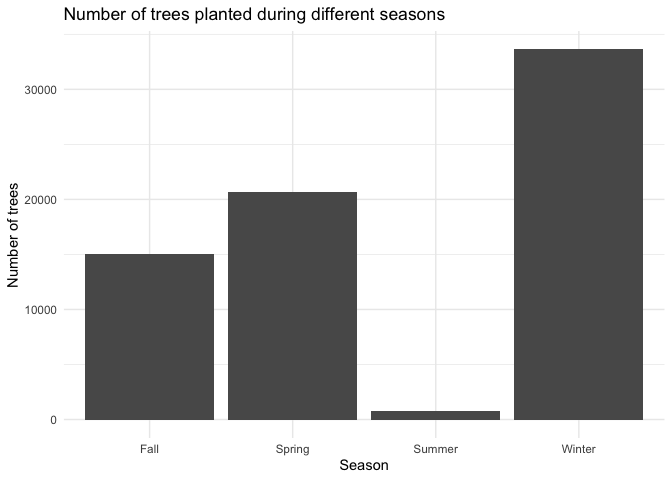
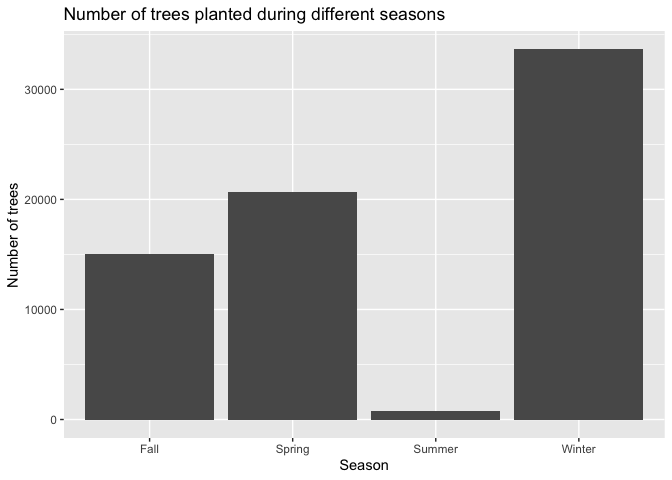
Edited README file, main.Rmd and knitted it to md file again.

diff --git a/main.md b/main.md
@@ -1,3 +1,5 @@
+# Mini Data-Analysis (STAT545A)
+
 # Welcome to your (maybe) first-ever data analysis project!
 
 And hopefully the first of many. Let’s get started:
@@ -5,30 +7,27 @@ And hopefully the first of many. Let’s get started:
 1.  Install the [`datateachr`](https://github.com/UBC-MDS/datateachr)
     package by typing the following into your **R terminal**:
 
-<!-- -->
+          #remove the hashtag ('#') symbol before the lines of code you wish to run below:
+          #install.packages("devtools")
+          #devtools::install_github("UBC-MDS/datateachr")
 
-    #install.packages("devtools")
-    #devtools::install_github("UBC-MDS/datateachr")
+2.  Load the packages below.
 
-1.  Load the packages below.
+        library(datateachr)
+        library(tidyverse)
 
-<!-- -->
+        ## ── Attaching core tidyverse packages ──────────────────────── tidyverse 2.0.0 ──
+        ## ✔ dplyr     1.1.3     ✔ readr     2.1.4
+        ## ✔ forcats   1.0.0     ✔ stringr   1.5.0
+        ## ✔ ggplot2   3.4.2     ✔ tibble    3.2.1
+        ## ✔ lubridate 1.9.2     ✔ tidyr     1.3.0
+        ## ✔ purrr     1.0.1     
+        ## ── Conflicts ────────────────────────────────────────── tidyverse_conflicts() ──
+        ## ✖ dplyr::filter() masks stats::filter()
+        ## ✖ dplyr::lag()    masks stats::lag()
+        ## ℹ Use the conflicted package (<http://conflicted.r-lib.org/>) to force all conflicts to become errors
 
-    library(datateachr)
-    library(tidyverse)
-
-    ## ── Attaching core tidyverse packages ──────────────────────── tidyverse 2.0.0 ──
-    ## ✔ dplyr     1.1.3     ✔ readr     2.1.4
-    ## ✔ forcats   1.0.0     ✔ stringr   1.5.0
-    ## ✔ ggplot2   3.4.2     ✔ tibble    3.2.1
-    ## ✔ lubridate 1.9.2     ✔ tidyr     1.3.0
-    ## ✔ purrr     1.0.1     
-    ## ── Conflicts ────────────────────────────────────────── tidyverse_conflicts() ──
-    ## ✖ dplyr::filter() masks stats::filter()
-    ## ✖ dplyr::lag()    masks stats::lag()
-    ## ℹ Use the conflicted package (<http://conflicted.r-lib.org/>) to force all conflicts to become errors
-
-1.  Make a repository in the <https://github.com/stat545ubc-2023>
+3.  Make a repository in the <https://github.com/stat545ubc-2023>
     Organization. You can do this by following the steps found on canvas
     in the entry called [MDA: Create a
     repository](https://canvas.ubc.ca/courses/126199/pages/mda-create-a-repository).
@@ -168,7 +167,7 @@ The cancer sample (`cancer_sample`) data set was acquired as courtesy of
 the UCI Machine Learning Repository and comprises patient IDs, diagnosis
 and 30 other aspects of tumours from 569 cancer patients.
 
-    class(cancer_sample) #this data is structured as a data frame, tibble and ****spec_tbl_df??
+    class(cancer_sample) #this data is structured as a data frame and different tibble variations (tbl, tbl_df, spec_tbl_df)
 
     ## [1] "spec_tbl_df" "tbl_df"      "tbl"         "data.frame"
 
@@ -209,6 +208,11 @@ and 30 other aspects of tumours from 569 cancer patients.
     ## $ symmetry_worst          <dbl> 0.4601, 0.2750, 0.3613, 0.6638, 0.2364, 0.3985…
     ## $ fractal_dimension_worst <dbl> 0.11890, 0.08902, 0.08758, 0.17300, 0.07678, 0…
 
+The `cancer_sample` dataset primarily contains rows of patient data and
+mainly numeric variables that characterize patient tumour features in
+great depth (ie. radius, texture, perimeter, area, smoothness,
+compactness, etc.).
+
 #### Vancouver trees
 
 The Vancouver trees (`vancouver_trees`) data was acquired as courtesy of
@@ -244,13 +248,19 @@ specifics about 146611 trees in Vancouver.
     ## $ longitude          <dbl> -123.1161, -123.1147, -123.0846, -123.0870, -123.08…
     ## $ latitude           <dbl> 49.21776, 49.21776, 49.23938, 49.23469, 49.23894, 4…
 
+The `vancouver_trees` dataset contains a wide variety of information on
+trees planted in Vancouver area, including features about location, tree
+type, height, diameter, date planted, etc. Owing to its large size and
+various types of variables, this dataset would be very informative to
+learn from!
+
 #### Apartment buildings
 
 The apartment buildings (`apt_buildings`) data was acquired as courtesy
 of The City of Toronto’s Open Data Portal and comprises 37 aspects of
 apartment listings for 3455 rental units.
 
-    class(apt_buildings) #this data is structured as a data frame and tibble
+    class(apt_buildings) #this data is structured as a data frame and tibble (tbl, tbl_df)
 
     ## [1] "tbl_df"     "tbl"        "data.frame"
 
@@ -296,13 +306,20 @@ apartment listings for 3455 rental units.
     ## $ cooling_room                     <chr> "NO", "NO", "NO", "NO", "NO", "NO", "…
     ## $ no_barrier_free_accessible_units <dbl> 2, 0, 0, 42, 0, NA, 14, 0, 0, 1, 25, …
 
+The `apt_buildings` dataset has detailed apartment information including
+building amenities, property features such as balcony, window types,
+year built and registered, etc. At quick glance, some of the categorical
+variables such as parking type are not standardized in their structure
+(ie. underground garage vs garage accessible thru building, etc.) so may
+make analysis challenging.
+
 #### Flow sample
 
 The flow sample (`flow_sample`) dataset was acquired as courtesy of The
 Government of Canada’s Historical Hydrometric Database and comprises 7
 features of flow rate information for 218 observations.
 
-    class(flow_sample) #this data is structured as a data frame and tibble
+    class(flow_sample) #this data is structured as a data frame and tibble (tbl, tbl_df)
 
     ## [1] "tbl_df"     "tbl"        "data.frame"
 
@@ -318,6 +335,12 @@ features of flow rate information for 218 observations.
     ## $ flow         <dbl> 314, 230, 264, 174, 232, 214, 236, 309, 174, 345, 185, 24…
     ## $ sym          <chr> NA, NA, NA, NA, NA, NA, NA, NA, NA, NA, NA, NA, NA, NA, N…
 
+The `flow_sample` dataset is relatively smaller and contains variables
+that I do not personally recognize as I am unfamiliar with flow data. At
+quick glance, there also appears to be a lot of missing data, especially
+in the ‘sym’ variable which, with an already small dataset, may make
+analysis challenging.
+
 <!----------------------------------------------------------------------------->
 
 1.3 **(1 point)** Now that you’ve explored the 4 datasets that you were
@@ -328,14 +351,16 @@ to choose this one? Briefly explain your choice below.
 
 While I was initially interested in the cancer\_samples dataset as my
 background and PhD is in immunology and human health, I have decided to
-explore the vancouver\_trees dataset as it contains a larger variety of
-type of variables (both numeric and categorical data). As an
-out-of-province student, I admire Vancouver’s greenery and am interested
-in exploring more about the various tree species located throughout this
-beautiful city. I often commute for work and classes between Fairview
-and UBC campus, so I would be intrigued to use this dataset to visualize
-more information about the tree landscape I see while en route on the 99
-bus line!
+explore the vancouver\_trees dataset as it contains a variety of
+variable types (both numeric and categorical data) and is a large
+dataset. I am hoping to learn how to handle big datasets as I will be
+working with this type of data during my graduate studies. As a non-BC
+student, I admire Vancouver’s greenery and am interested in exploring
+more about the various tree species located throughout this beautiful
+city. I often commute for work and classes between Fairview and UBC
+campus, so I would be intrigued to use this dataset to visualize more
+information about the landscape I see while en route on the 99 bus line
+(and learn more about trees in the process)!
 
 <!----------------------------------------------------------------------------->
 
@@ -419,36 +444,36 @@ sufficient comments for a reader to understand your reasoning and code.
 
 ## INTRODUCTION
 
-Hello everyone! To better understand the **vancouver\_trees** dataset,
-we will complete some exercises and dive deeper into the data. Please
-follow along below as we work through 4 tasks aimed at giving yet better
-insight. We will use the **dplyr** package to manipulate the data and
-**ggplot2** for data visualization. Ultimately, we hope to answer the
-following question: **Are there patterns to tree planting amongst
-various communities, between seasons and over time in Vancouver?**
+Hello everyone! To better understand the `vancouver_trees` dataset, we
+will complete some exercises and dive deeper into the data. Please
+follow along below as we work through 4 tasks aimed at giving us better
+insight. We will use the [dplyr](https://dplyr.tidyverse.org/) package
+to manipulate the data and [ggplot2](https://ggplot2.tidyverse.org/) for
+data visualization. Ultimately, we hope to address the following
+question: **Are there patterns to tree planting amongst various
+communities, between seasons and over time in Vancouver?**
 
-Let’s begin!
+*Let’s begin!*
 
 ### Investigating and plotting the number of missing values per variable
 
 We will start by exploring how many missing values exist in this dataset
 as it will give us insight into the quality of the data we are working
 with. Analyzing which variables have the most missing data is important
-as this may lead to biased conclusions. Additionally, we should be aware
-that removing rows with missing values may skew our dataset if there are
-patterns to the missingness (i.e. if dates for all ‘x’ genus of tree are
-not indexed, removing rows with missing dates before proceeding with the
-analysis will make it appear like that ‘x’ genus of tree is not present
-in Vancouver). Altogether, exploring and visualizing the number of
-missing values per variable is a starting place to address the concerns
-above.
+as missing data may lead to biased conclusions. Additionally, we should
+be aware that removing rows with missing values may skew our dataset if
+there are patterns to the missingness (i.e. if dates for all ‘x’ genus
+of tree are not indexed, removing rows with missing dates before
+proceeding with the analysis will make it incorrectly appear as if the
+‘x’ genus of tree is not present in Vancouver). Altogether, exploring
+and visualizing the number of missing values per variable is a starting
+place to address the concerns above.
 
     # create na_summary tibble that contains variable numbers in one column, counts the number of missing values and calculates the percentage of missing values per variable.
     na_summary <- tibble(
       variable = colnames(vancouver_trees),
       num_missing = colSums(is.na(vancouver_trees)),
-      perc_missing = num_missing / nrow(vancouver_trees) * 100
-      )
+      perc_missing = num_missing / nrow(vancouver_trees) * 100)
 
     print(na_summary) #lets take a look at the tibble 
 
@@ -480,19 +505,19 @@ above.
     na_summary%>%
       ggplot(aes(x = variable, y = perc_missing)) +
       geom_bar(stat = "identity") +
-      ggtitle("Percentage of Missing Values Per Variable") +
       xlab("Variables") +
       ylab("Percentage of Missing Values") +
+      ggtitle("Percentage of Missing Values Per Variable") +
       theme(axis.text.x = element_text(angle = 45, hjust = 1, size = 8), 
             axis.text.y = element_text(size = 10))
 
 ![](main_files/figure-markdown_strict/unnamed-chunk-7-1.png)
 
 **Note**: If we wanted to only plot variables with missing data, we
-could first filter(perc\_missing &gt; 0). Since I wanted to visualize
-the number of variables that have missing data in relation to the total
-number of variables in the dataset, I decided to not pre-filter the data
-before plotting.
+could first use a filter (such as `filter(perc_missing > 0)`). Since I
+wanted to visualize the number of variables that have missing data in
+relation to the total number of variables in the dataset, I decided to
+not pre-filter the data before plotting.
 
 ### Creating a new season variable
 
@@ -582,12 +607,9 @@ defined the seasons as listed in the table below:
                month_planted %in% c(6, 7, 8) ~ "Summer",
                month_planted %in% c(9, 10, 11) ~ "Fall",
                month_planted %in% c(12, 1, 2) ~ "Winter", 
-               TRUE ~ "Unknown"
-             )
-           ) %>%
+               TRUE ~ "Unknown")) %>%
       ggplot(aes(x = season)) +
       geom_bar() +
-      theme_minimal() +
       ggtitle("Number of trees planted during different seasons") +
       xlab("Season") +
       ylab("Number of trees")
@@ -602,10 +624,23 @@ allows me to return a particular value (~ ” “) if the condition is met
 (month\_planted %in% c(x, y, z)). This function meets the need I have to
 assign specific season labels based on different month conditions.
 
+It is interesting to see that the majority of trees included in this
+dataset are planted in the winter! I had previously heard that fall and
+spring are good times to plant. Interestingly, the graph above prompted
+me to look into why planting in colder months would be advantageous and
+I learned that during winter trees enter dormancy where they conserve
+their energy in their roots, allowing for them to develop an energy
+store that permits their prosperous growth during the springtime (see
+[here](https://lifecyclesproject.ca/2021/11/03/when-is-the-best-time-to-plant-a-fruit-tree/)
+for more information. Since the ground doesn’t freeze over as much in
+Vancouver like it does in other regions perhaps that’s why winter is a
+popular planting season. I wonder how these patterns would vary in
+colder and snowy cities such as Calgary…
+
 ### Exploring the distribution of Maple trees (Acer genus) across Vancouver communities
 
 I am also interested in exploring the extent of diversity in the trees
-planted across different neighborhoods in Vancouver. As this dataset we
+planted across different neighborhoods in Vancouver. As the dataset we
 are working with is quite large, to get a glimpse at potential
 variability, I will start by plotting the number of Maple trees (my
 favourite type of tree and a symbol national Canadian identity!) across
@@ -615,9 +650,9 @@ various Vancouver communities.
     #we need to first group the data by neighbourhood
     #then filter to only select and count tees from the Acer genus
     acer_count <- vancouver_trees %>%
-      group_by(neighbourhood_name) %>%
-      filter(genus_name == "ACER") %>%
-      summarise(total_trees = n()) 
+                  group_by(neighbourhood_name) %>%
+                  filter(genus_name == "ACER") %>%
+                  summarise(total_trees = n()) 
 
     print(acer_count)
 
@@ -636,12 +671,12 @@ various Vancouver communities.
     ## 10 KITSILANO                       2211
     ## # ℹ 12 more rows
 
-    #plotting number of acer trees in different neighbourhoods 
+    #plotting number of Acer trees in different neighbourhoods 
     ggplot(acer_count, aes(x = total_trees, y = neighbourhood_name)) +
       geom_bar(stat = "identity") +
-      ggtitle("Acer Trees Throughout Vancouver Neighbourhoods ") +
       xlab("Total Acer trees") +
-      ylab("")
+      ylab("") +
+      ggtitle("Acer Trees Throughout Vancouver Neighbourhoods ")
 
 ![](main_files/figure-markdown_strict/unnamed-chunk-9-1.png)
 
@@ -654,19 +689,21 @@ to create maple syrup. I am interested in further characterizing the
 distribution of various species of Maple trees in Vancouver. While I am
 pretty sure tapping trees within the city is likely illegal, it would be
 interesting to see whether certain communities have a greater yield of
-sap due to increased Sugar Maple planting. The following filtering
-approach could be modified to look at different tree species, specific
-neighbourhoods, etc. in subsequent analyses.
+sap (more Sugar Maple trees). The following filtering approach could be
+modified to look at different tree species, specific neighbourhoods,
+etc. in subsequent analyses.
 
     #first we want to filter for only Acer trees 
     #also we should remove any data where neighbourhood or species name is missing
     #then we should group by neighborhood and tree species
     #lastly count the number of each species in each neighborhood
     species_by_neighborhood <- vancouver_trees %>%
-      filter(genus_name == "ACER" & !is.na(neighbourhood_name) & !is.na(species_name)) %>%  
-      group_by(neighbourhood_name, species_name) %>%  
-      summarise(count = n()) %>%
-      arrange(desc(count))
+                                filter(genus_name == "ACER" & 
+                                        !is.na(neighbourhood_name) & 
+                                        !is.na(species_name)) %>%  
+                                group_by(neighbourhood_name, species_name) %>%  
+                                summarise(count = n()) %>%
+                                arrange(desc(count))
 
     ## `summarise()` has grouped output by 'neighbourhood_name'. You can override
     ## using the `.groups` argument.
